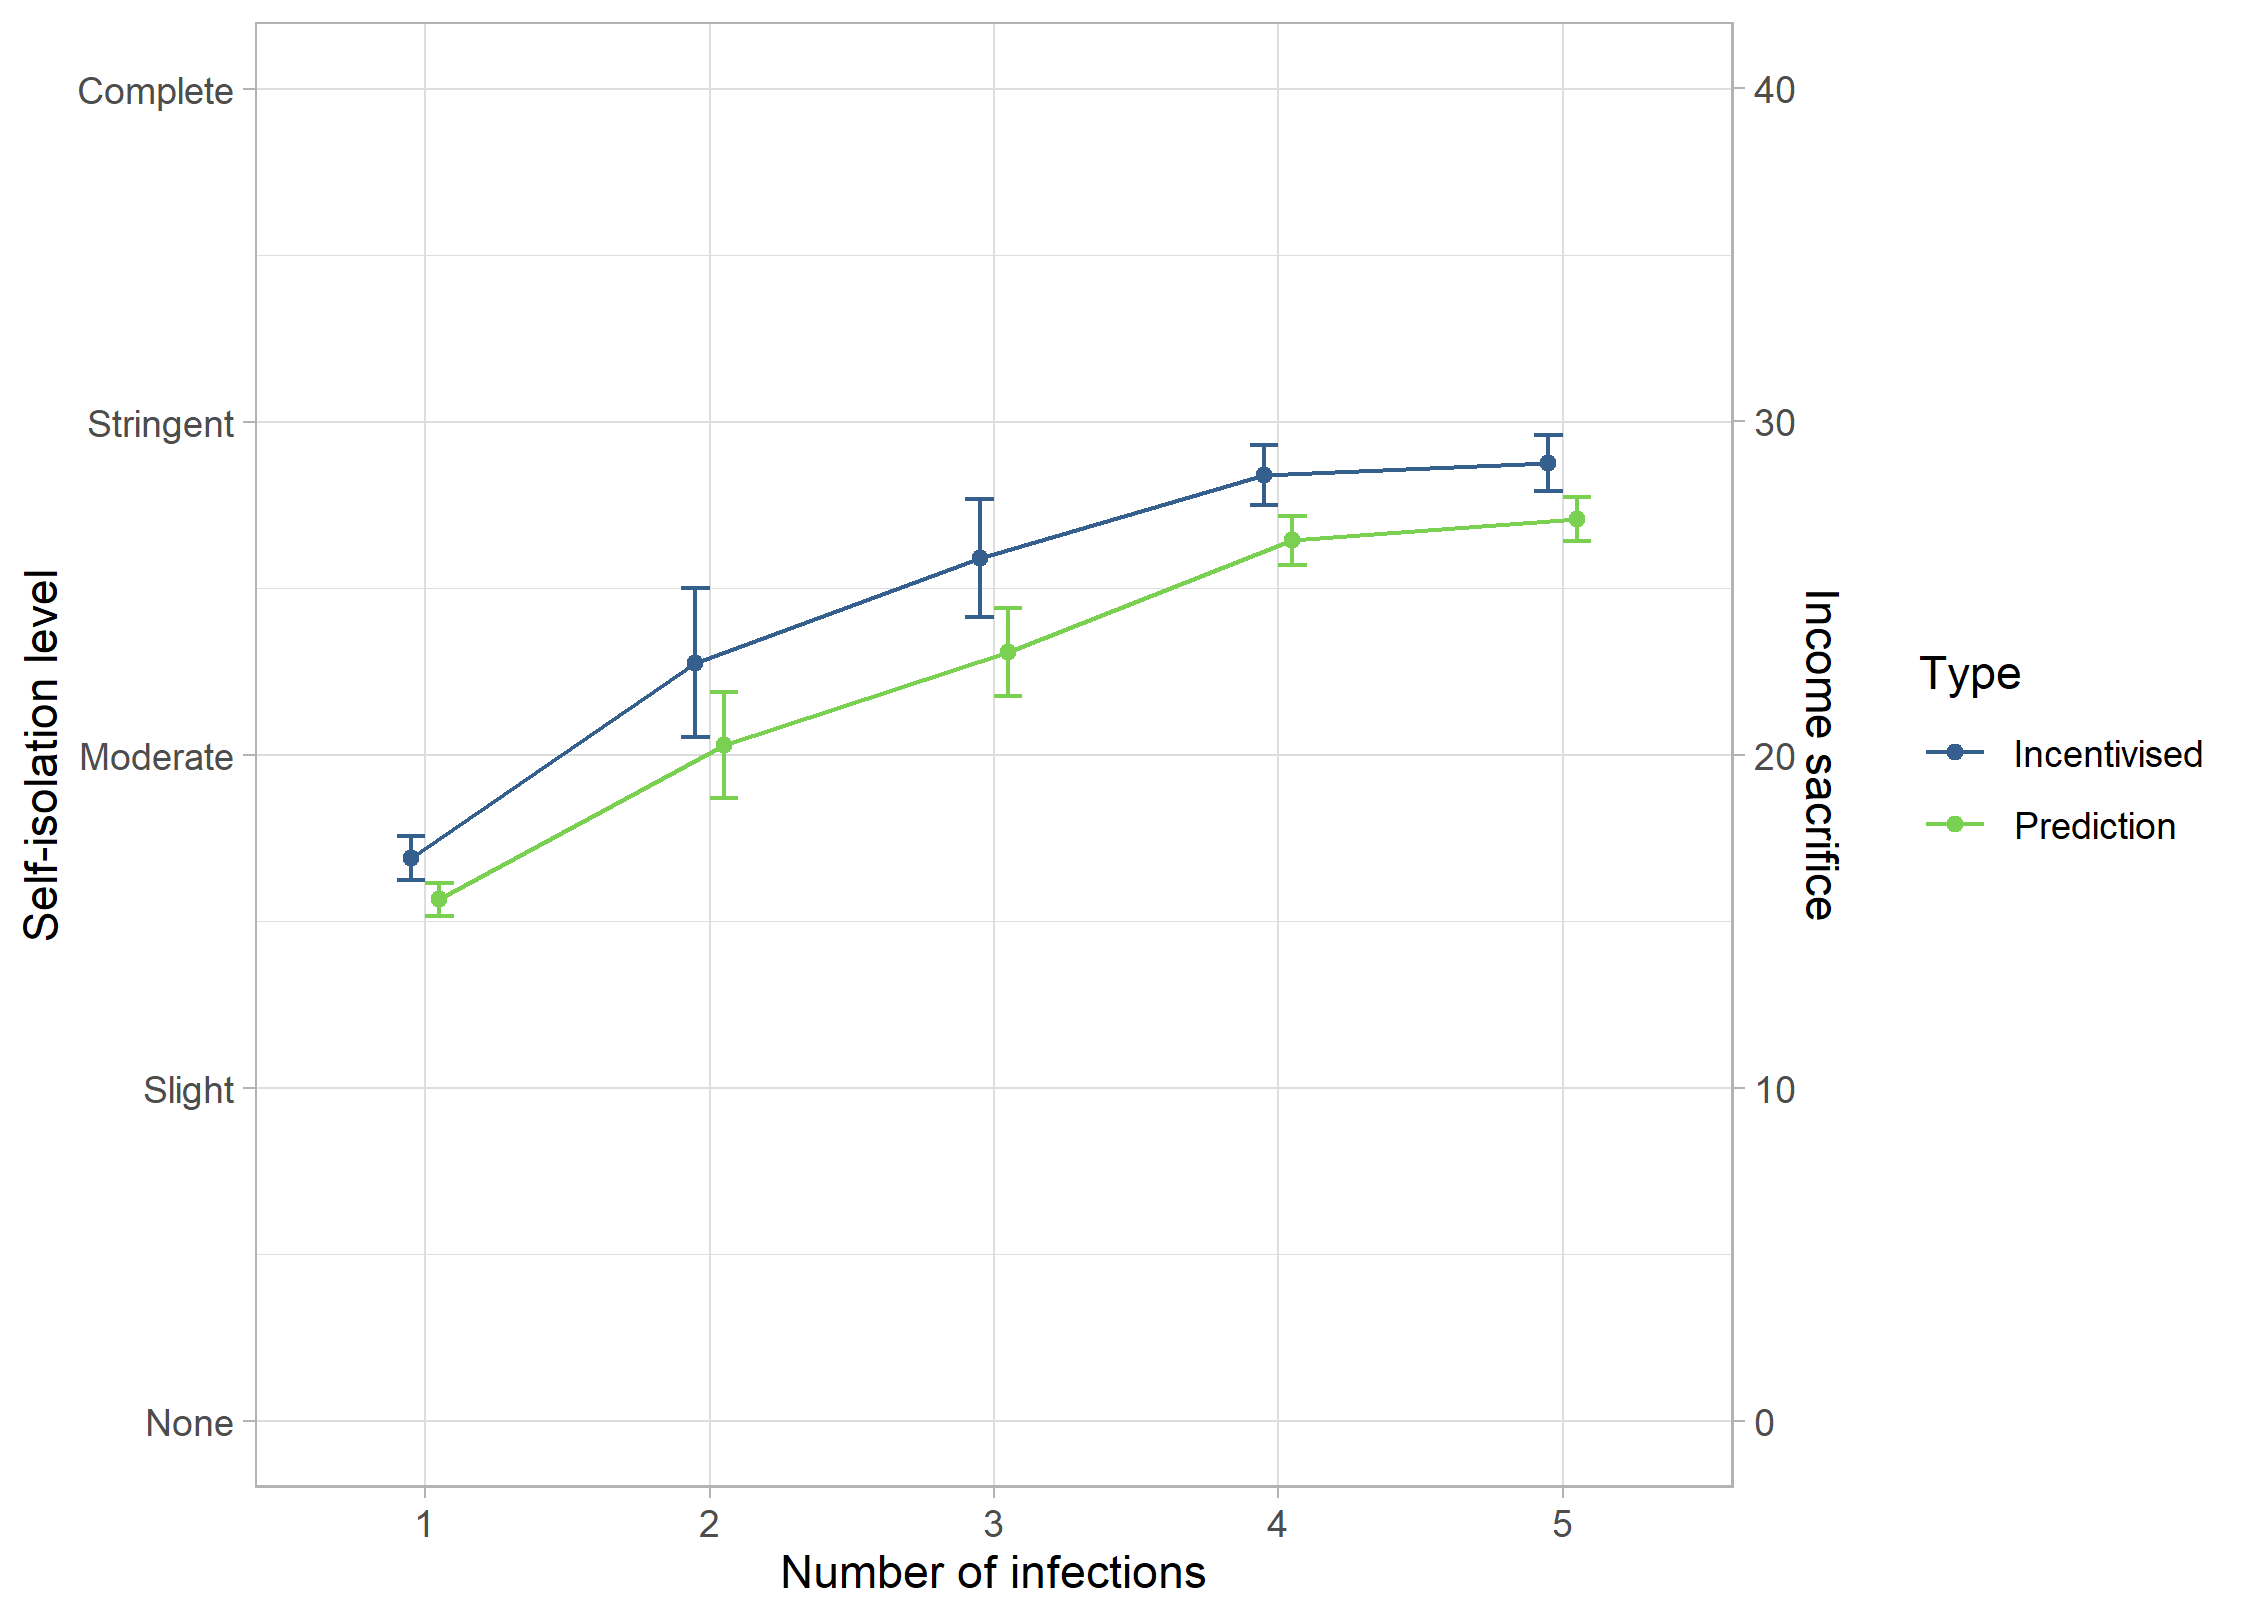
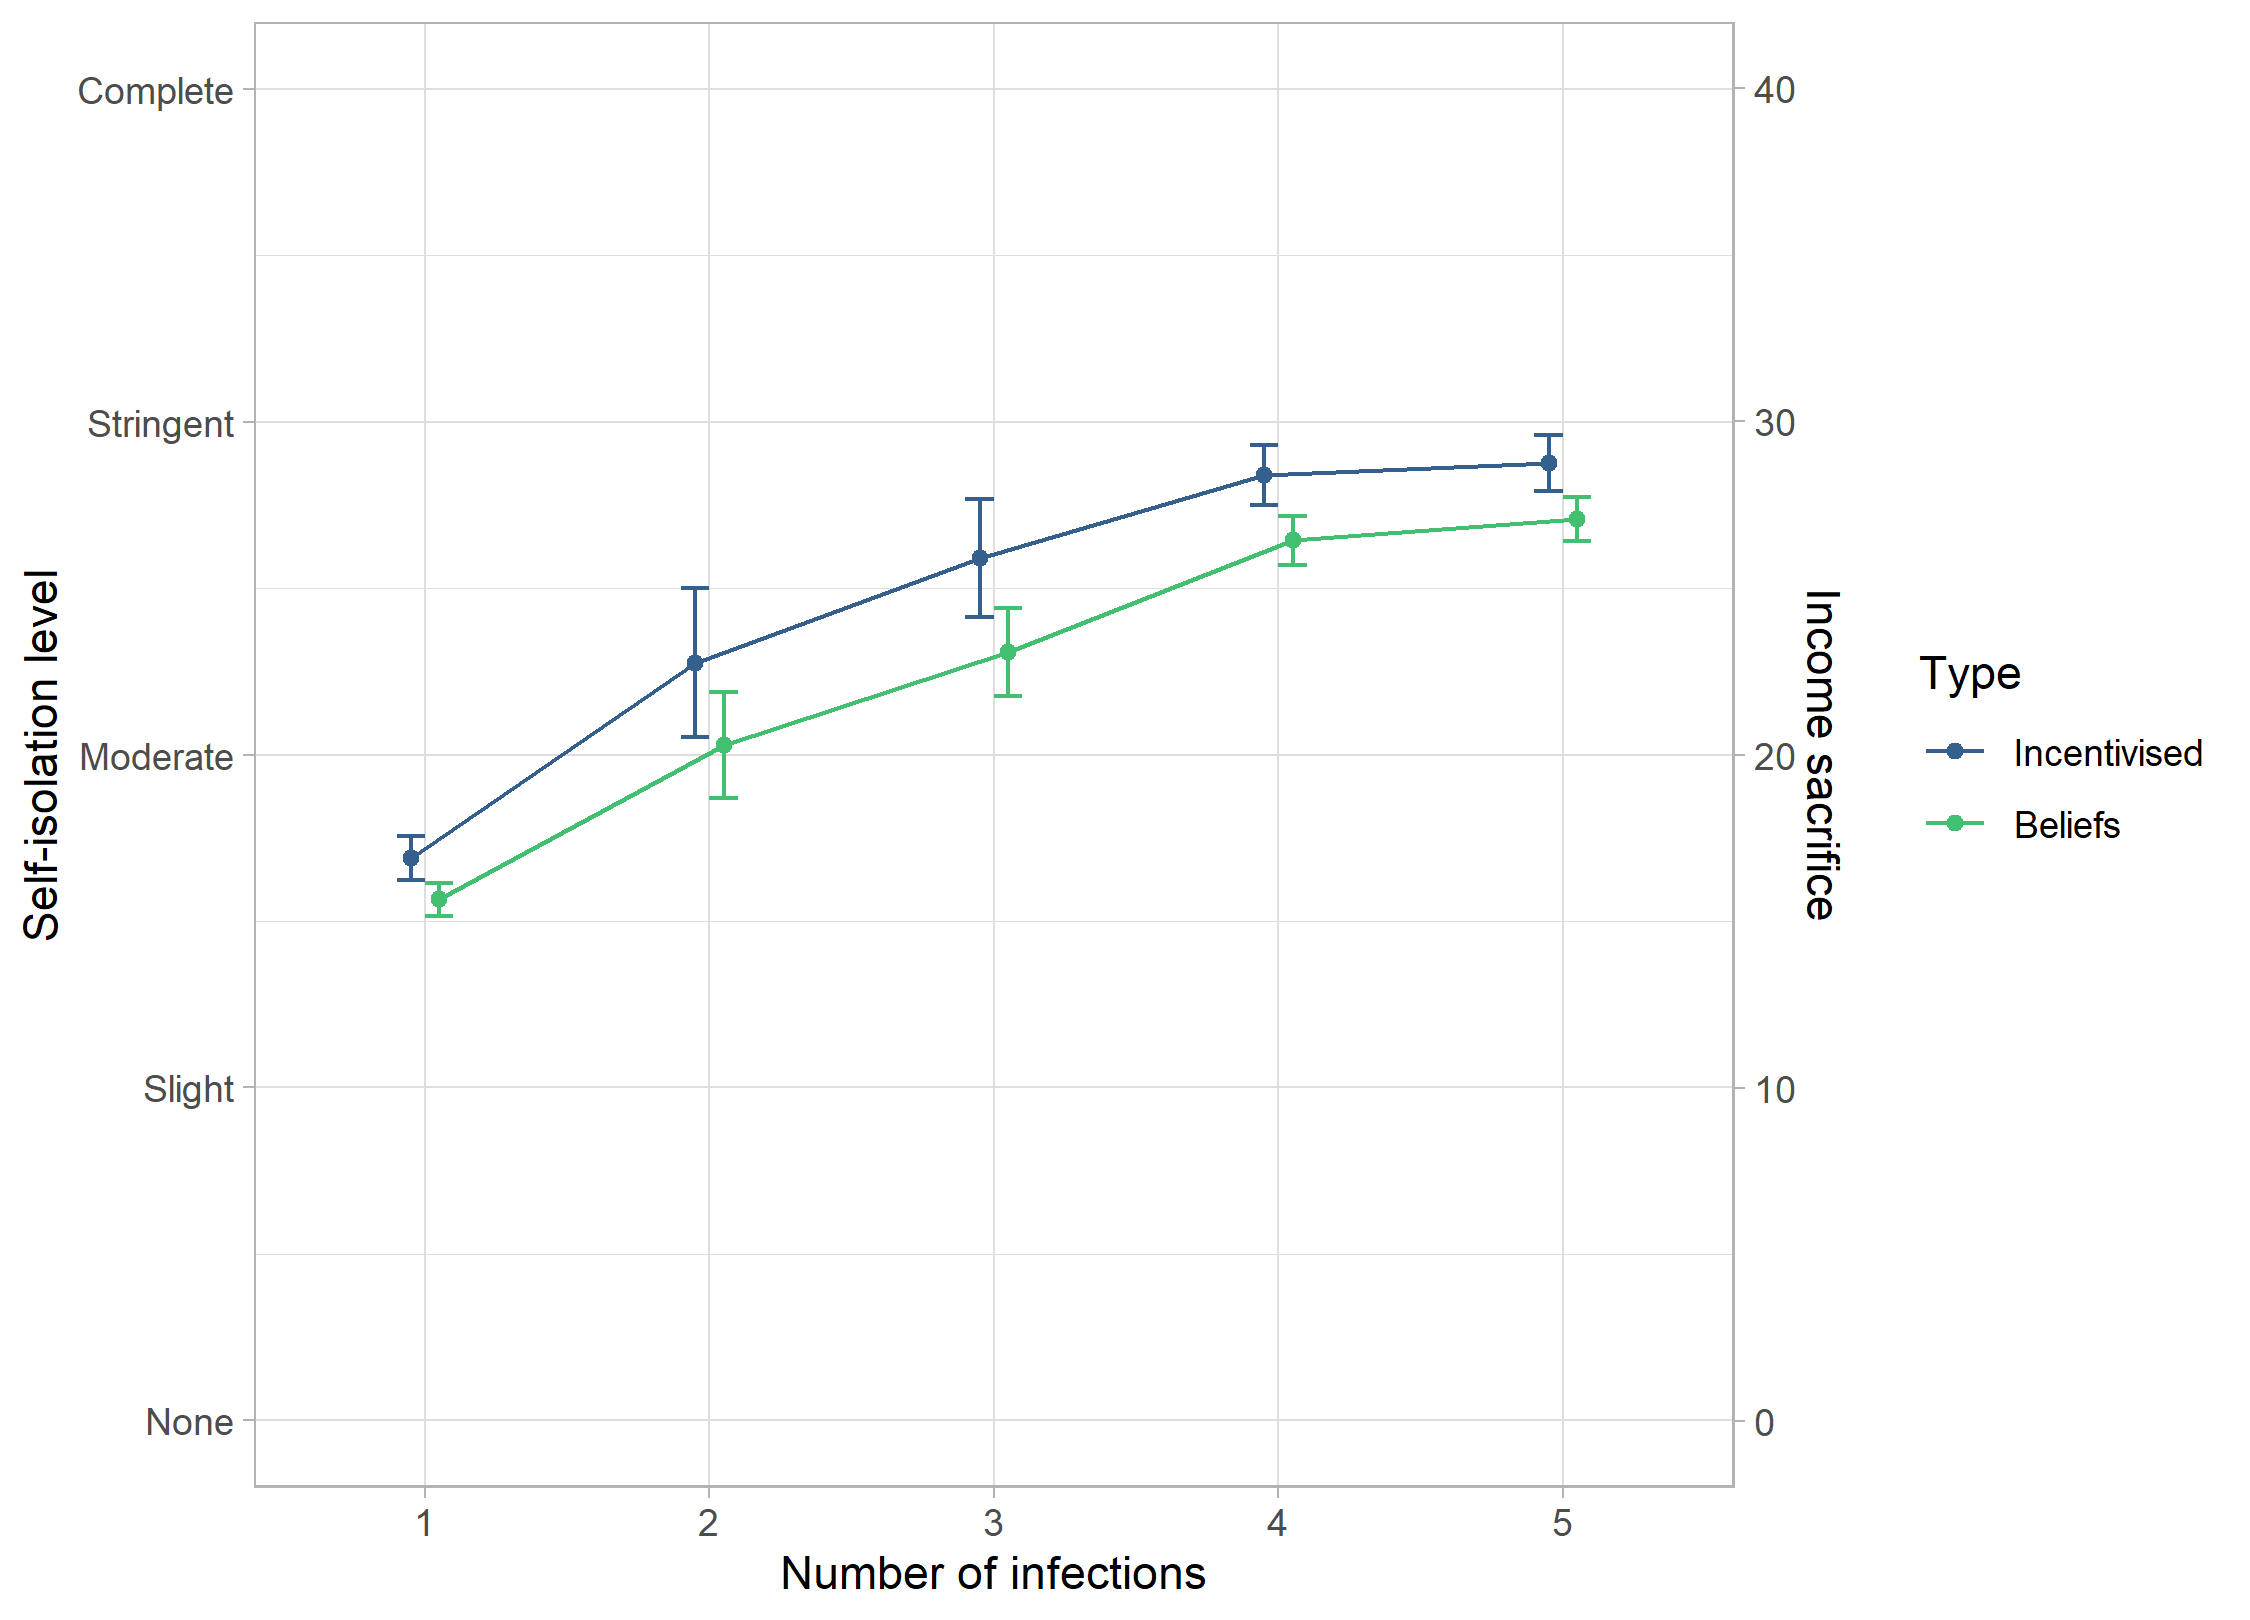
Clarifications to the README, a figure and the table.

diff --git a/tables_and_figures/regressionTable.html b/tables_and_figures/regressionTable.html
@@ -2,7 +2,7 @@
 <table style="text-align:center"><caption><strong>Regression Results H1-H3</strong></caption>
 <tr><td colspan="4" style="border-bottom: 1px solid black"></td></tr><tr><td style="text-align:left"></td><td colspan="3"><em>Dependent variable:</em></td></tr>
 <tr><td></td><td colspan="3" style="border-bottom: 1px solid black"></td></tr>
-<tr><td style="text-align:left"></td><td>Incentivised <br>Self-isolation</td><td>Predictions About <br>Others</td><td>Hypothetical <br>Self-isolation</td></tr>
+<tr><td style="text-align:left"></td><td>Incentivised <br>Self-isolation</td><td>Beliefs About <br>Others</td><td>Hypothetical <br>Self-isolation</td></tr>
 <tr><td style="text-align:left"></td><td>(1)</td><td>(2)</td><td>(3)</td></tr>
 <tr><td colspan="4" style="border-bottom: 1px solid black"></td></tr><tr><td style="text-align:left">Round Number</td><td>0.022</td><td>-0.014</td><td>0.007</td></tr>
 <tr><td style="text-align:left"></td><td>(0.025)</td><td>(0.023)</td><td>(0.022)</td></tr>
@@ -10,7 +10,7 @@
 <tr><td style="text-align:left"></td><td>(0.115)</td><td>(0.105)</td><td>(0.063)</td></tr>
 <tr><td style="text-align:left">Others in Previous Round</td><td>0.009</td><td>0.009</td><td>0.007<sup>*</sup></td></tr>
 <tr><td style="text-align:left"></td><td>(0.007)</td><td>(0.007)</td><td>(0.004)</td></tr>
-<tr><td style="text-align:left">Prediction</td><td>0.475<sup>***</sup></td><td></td><td></td></tr>
+<tr><td style="text-align:left">Beliefs</td><td>0.475<sup>***</sup></td><td></td><td></td></tr>
 <tr><td style="text-align:left"></td><td>(0.017)</td><td></td><td></td></tr>
 <tr><td style="text-align:left">Assumed Self-isolation <br>of Others</td><td></td><td></td><td>0.108<sup>***</sup></td></tr>
 <tr><td style="text-align:left"></td><td></td><td></td><td>(0.005)</td></tr>

diff --git a/README.md b/README.md
@@ -10,7 +10,7 @@ The raw-data folder contains the raw data for the project, and the cleaned-data 
 
 The 'modelling_self-isolation-game.Rmd' contains the simulations used in the manuscript.
 
-The R environment has been preserved in a lock file, such that it can be run in the future when the packages have been updated.
+The R environment has been preserved in a lock file, such that it can be run in the future when the packages have been updated. It is also possible to load the .RData file directly, in order to have all objects in the environment pre-loaded.
 
 ## Data structure
 
